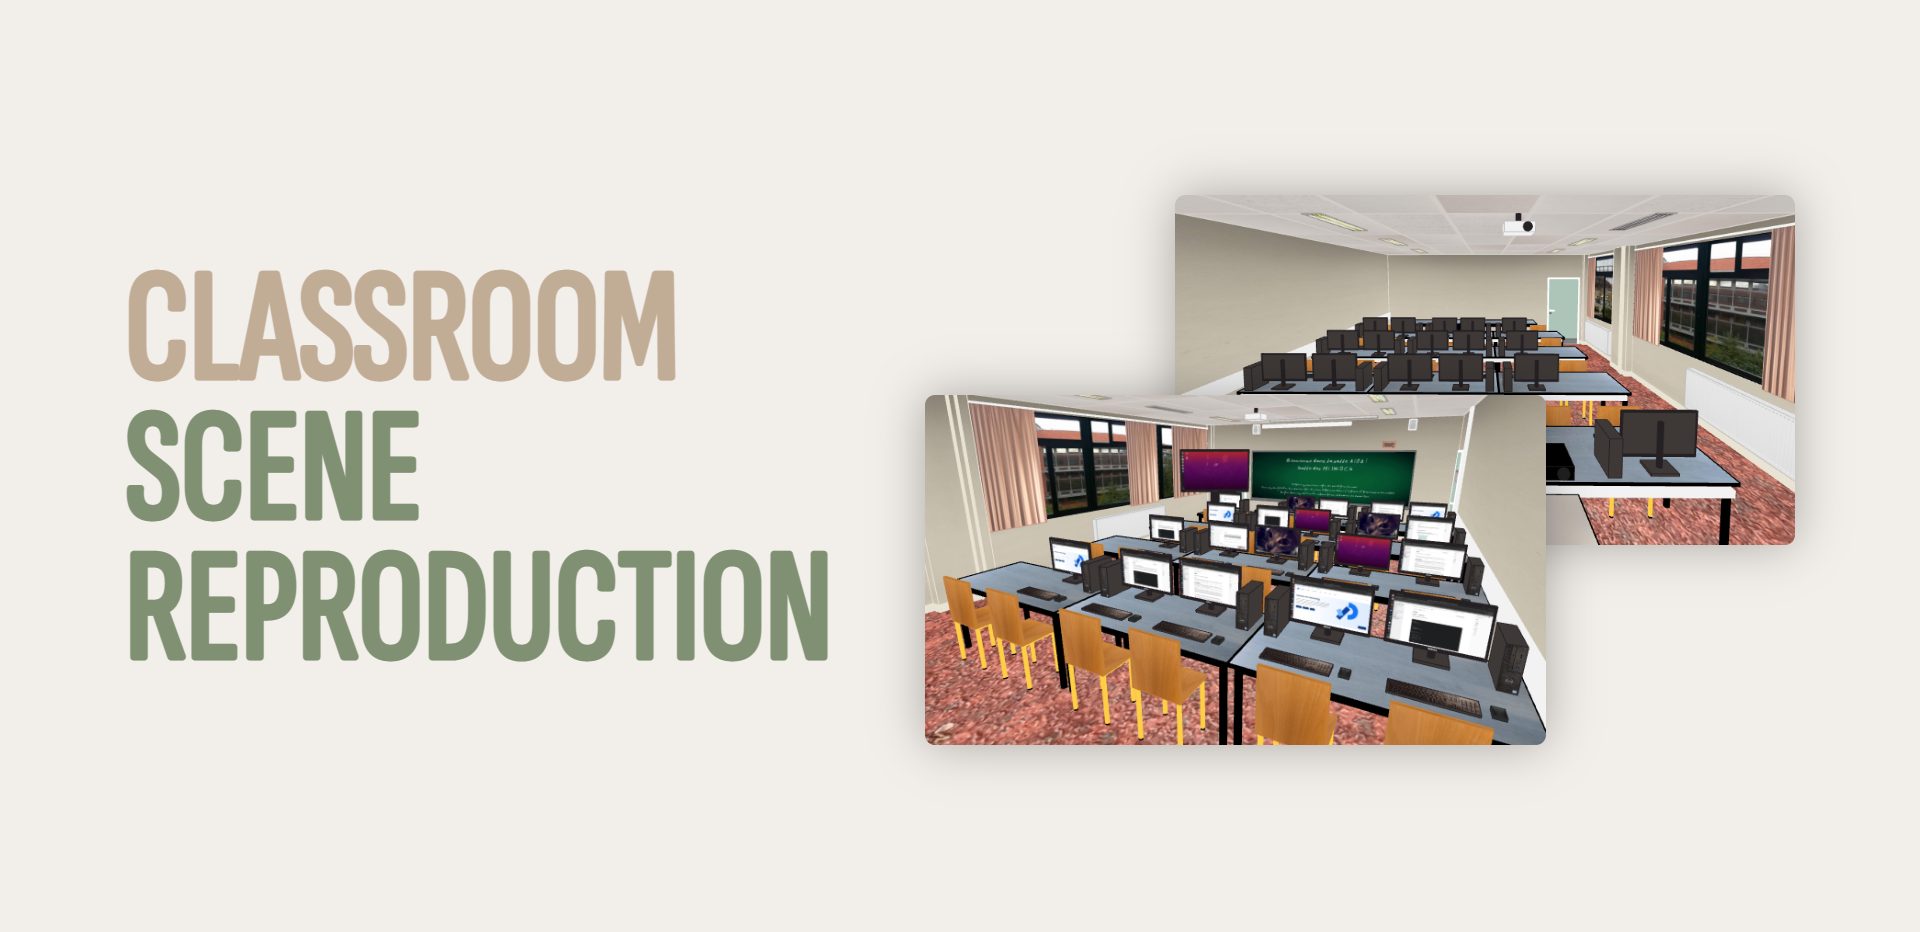
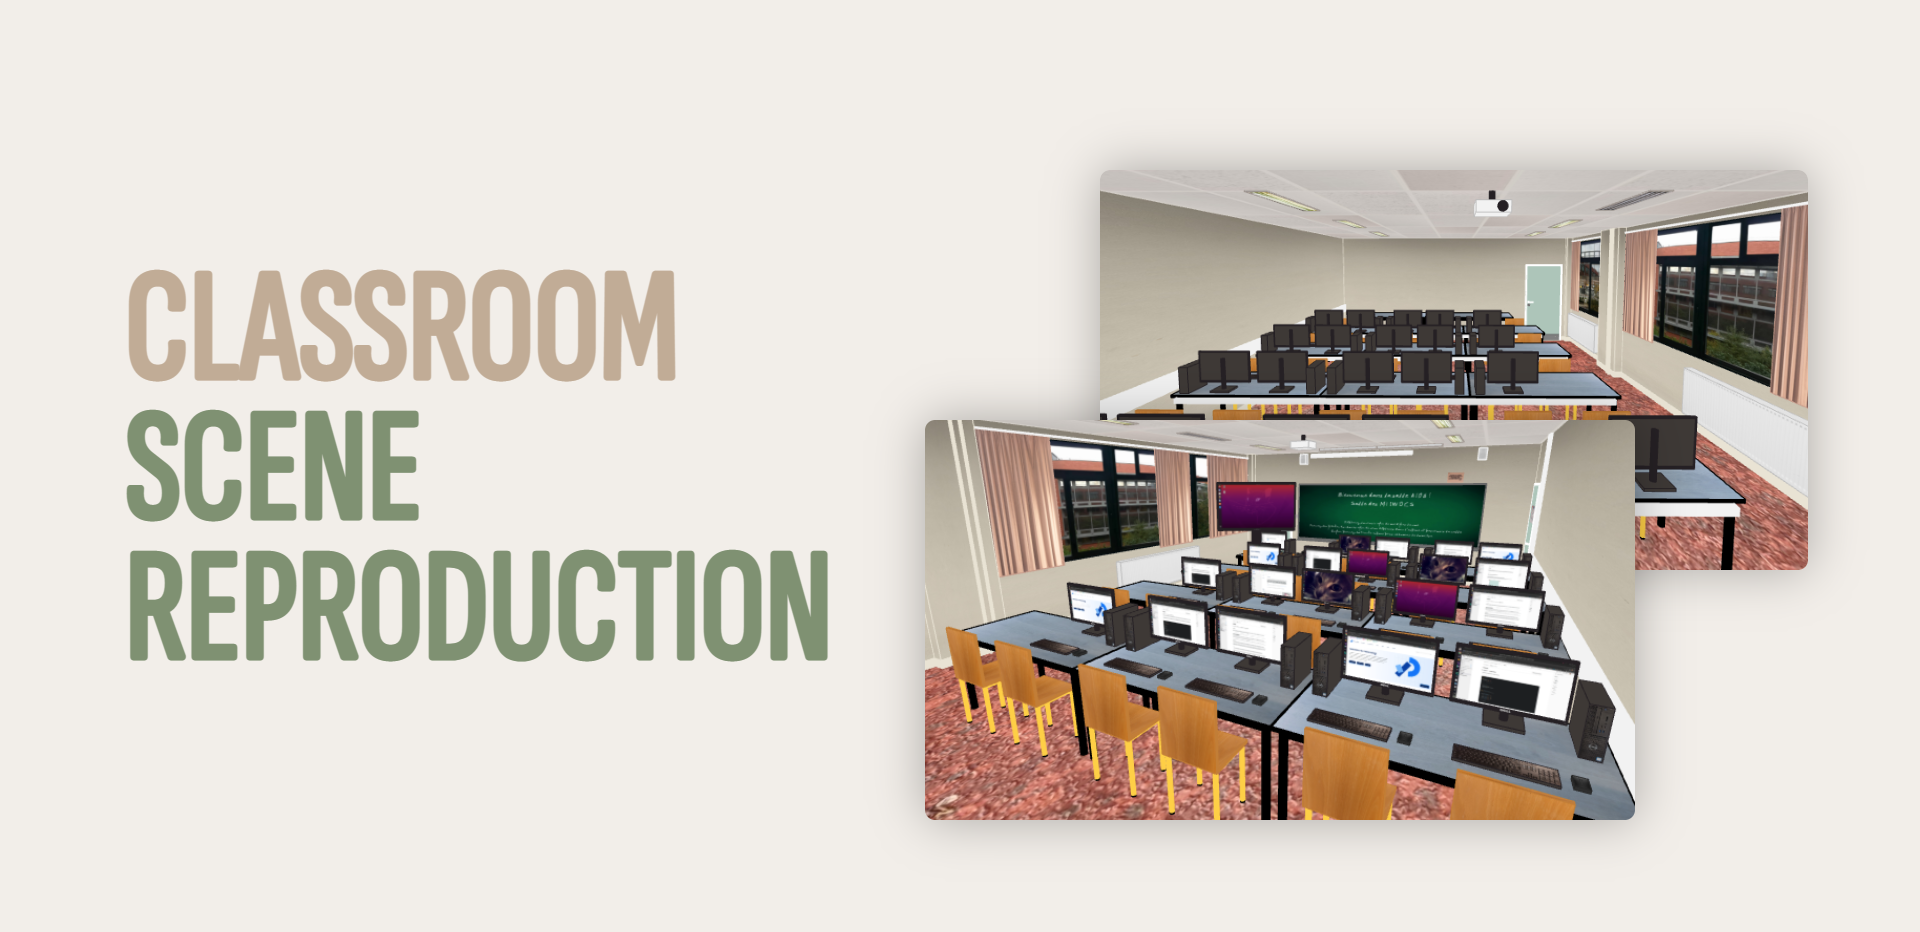
Update size pictures

Changed region(s): [[0.4688, 0.1556, 0.9688, 0.9024]]

diff --git a/style.css b/style.css
@@ -48,19 +48,19 @@ body {
 .picture1 {
     position:absolute;
     z-index: 3;
-    top: 400px;
+    top: 425px;
     left: 925px;
-    height: 350px;
+    height: 400px;
     border-radius: 10px;
-    box-shadow: 0 0 50px rgba(0, 0, 0, 0.3);
+    box-shadow: 0px 0px 50px rgba(0, 0, 0, 0.3);
 }
 
 .picture2 {
     position:absolute;
     z-index: 2;
-    top: 200px;
-    left: 1175px;
-    height: 350px;
+    top: 175px;
+    left: 1100px;
+    height: 400px;
     border-radius: 10px;
-    box-shadow: 0 0 50px rgba(0, 0, 0, 0.3);
+    box-shadow: 0px 0px 50px rgba(0, 0, 0, 0.3);
 }
